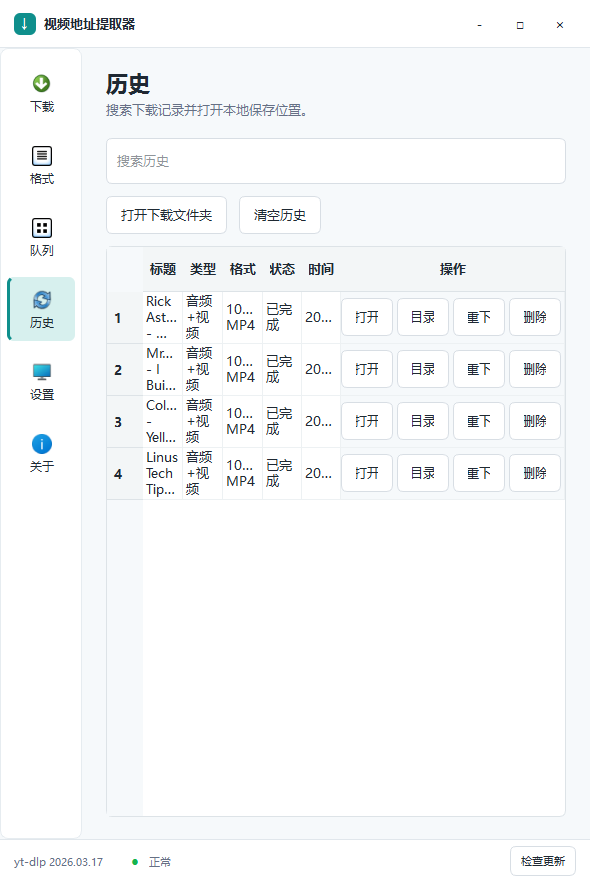
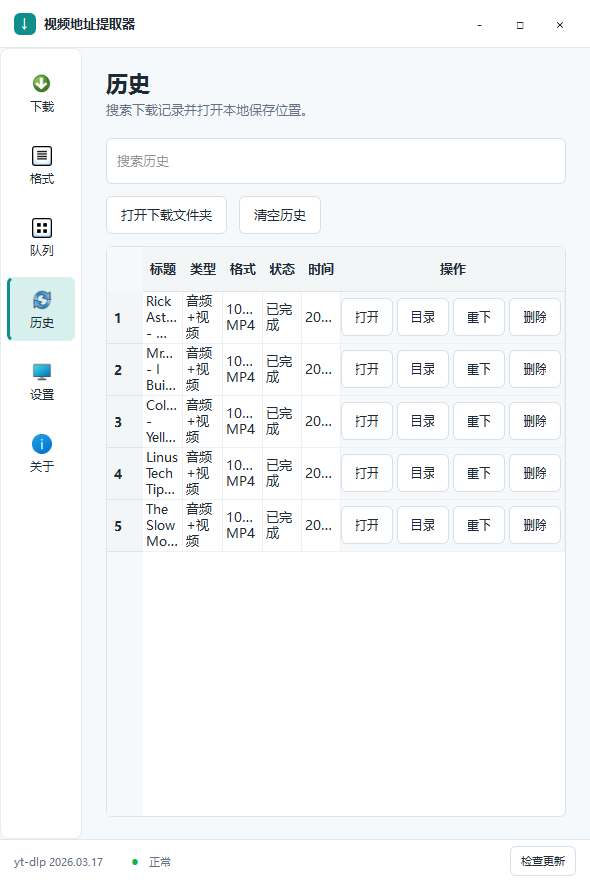
feat: refine queue visual layout

diff --git a/tests/test_gui_smoke.py b/tests/test_gui_smoke.py
@@ -493,6 +493,32 @@ def test_queue_history_status_uses_completed_badge(qtbot):
     assert badge.maximumHeight() <= 24
 
 
+def test_queue_history_footer_exposes_folder_and_search_controls(qtbot):
+    window = MainWindow()
+    qtbot.addWidget(window)
+
+    assert window.queue_page.open_downloads_button.text() == "打开下载文件夹"
+    assert window.queue_page.history_search.placeholderText() == "搜索历史..."
+    assert window.queue_page.open_downloads_button.minimumWidth() >= 150
+    assert window.queue_page.history_search.minimumWidth() >= 180
+
+
+def test_queue_history_search_filters_recent_records(qtbot):
+    window = MainWindow()
+    qtbot.addWidget(window)
+    window.queue_page.load_history_records(
+        [
+            HistoryRecord("Alpha Video", "https://example.com/a", "D:/a.mp4", "音频+视频", "1080p MP4", "不下载", "finished", "2026-06-01T10:21:00"),
+            HistoryRecord("Beta Clip", "https://example.com/b", "D:/b.mp4", "音频+视频", "720p MP4", "不下载", "finished", "2026-06-01T09:15:00"),
+        ]
+    )
+
+    window.queue_page.history_search.setText("Beta")
+
+    assert window.queue_page.recent_history_table.rowCount() == 1
+    assert window.queue_page.recent_history_table.item(0, 0).text() == "Beta Clip"
+
+
 def test_queue_toolbar_aligns_with_header_at_reference_size(qtbot):
     apply_light_theme(QApplication.instance())
     window = MainWindow()
@@ -507,6 +533,45 @@ def test_queue_toolbar_aligns_with_header_at_reference_size(qtbot):
     button_top = window.queue_page.pause_all_button.mapTo(window.queue_page, QPoint(0, 0)).y()
 
     assert button_top <= title_top + 16
+
+
+def test_queue_header_uses_compact_reference_layout(qtbot):
+    window = MainWindow()
+    qtbot.addWidget(window)
+
+    subtitles = [
+        label.text()
+        for label in window.queue_page.findChildren(QLabel)
+        if label.text().startswith("查看")
+    ]
+
+    assert subtitles == []
+
+
+def test_queue_cards_match_reference_top_and_height(qtbot):
+    apply_light_theme(QApplication.instance())
+    window = MainWindow()
+    qtbot.addWidget(window)
+    window.resize(535, 883)
+    window.nav.setCurrentRow(2)
+    for index in range(3):
+        task_id = f"task-{index}"
+        window.queue_page.add_task(task_id, "Rick Astley - Never Gonna Give You Up (Official Music Video)")
+        window.queue_page.update_task(
+            task_id,
+            status="下载中" if index < 2 else "已完成",
+            progress=[68.0, 32.0, 100.0][index],
+            speed="2.00MiB/s",
+            eta="00:18" if index < 2 else "00:00",
+        )
+    window.show()
+    qtbot.wait(50)
+
+    first_card = window.queue_page._task_cards["task-0"]["card"]
+    first_card_top = first_card.mapTo(window, QPoint(0, 0)).y()
+
+    assert 112 <= first_card_top <= 125
+    assert 86 <= first_card.height() <= 94
 
 
 def test_queue_card_actions_fit_compact_width(qtbot):

diff --git a/src/ytdl_gui/ui/pages/queue_page.py b/src/ytdl_gui/ui/pages/queue_page.py
@@ -4,6 +4,7 @@ from PySide6.QtWidgets import (
     QFrame,
     QHBoxLayout,
     QLabel,
+    QLineEdit,
     QProgressBar,
     QPushButton,
     QScrollArea,
@@ -24,6 +25,7 @@ class QueuePage(QWidget):
     def __init__(self):
         super().__init__()
         self._task_cards: dict[str, dict[str, object]] = {}
+        self._recent_history_records = []
         self.table = QTableWidget(0, 6)
         self.table.setHorizontalHeaderLabels(["标题", "状态", "进度", "速度", "剩余时间", "操作"])
         self.table.horizontalHeader().setSectionResizeMode(QHeaderView.Stretch)
@@ -36,7 +38,7 @@ class QueuePage(QWidget):
         self.card_host = QWidget()
         self.card_layout = QVBoxLayout(self.card_host)
         self.card_layout.setContentsMargins(0, 0, 0, 0)
-        self.card_layout.setSpacing(10)
+        self.card_layout.setSpacing(8)
         self.card_layout.addStretch()
 
         self.scroll_area = QScrollArea()
@@ -44,7 +46,7 @@ class QueuePage(QWidget):
         self.scroll_area.setWidgetResizable(True)
         self.scroll_area.setHorizontalScrollBarPolicy(Qt.ScrollBarPolicy.ScrollBarAlwaysOff)
         self.scroll_area.setVerticalScrollBarPolicy(Qt.ScrollBarPolicy.ScrollBarAlwaysOff)
-        self.scroll_area.setMaximumHeight(340)
+        self.scroll_area.setMaximumHeight(300)
         self.scroll_area.setSizePolicy(QSizePolicy.Policy.Expanding, QSizePolicy.Policy.Maximum)
         self.scroll_area.setWidget(self.card_host)
 
@@ -64,19 +66,34 @@ class QueuePage(QWidget):
         self.recent_history_table.setHorizontalScrollBarPolicy(Qt.ScrollBarPolicy.ScrollBarAlwaysOff)
         self.recent_history_table.setVerticalScrollBarPolicy(Qt.ScrollBarPolicy.ScrollBarAlwaysOff)
         self.recent_history_table.setMinimumHeight(144)
+        self.open_downloads_button = QPushButton("打开下载文件夹")
+        self.open_downloads_button.setObjectName("queueOpenDownloadsButton")
+        self.open_downloads_button.setFixedWidth(150)
+        self.history_search = QLineEdit()
+        self.history_search.setPlaceholderText("搜索历史...")
+        self.history_search.setObjectName("queueHistorySearch")
+        self.history_search.setFixedWidth(180)
+        self.history_search.textChanged.connect(lambda _text: self._render_recent_history())
 
         layout = QVBoxLayout(self)
-        layout.setContentsMargins(24, 22, 24, 22)
-        layout.setSpacing(12)
+        layout.setContentsMargins(24, 20, 24, 22)
+        layout.setSpacing(10)
         header_row = QHBoxLayout()
         header_row.setContentsMargins(0, 0, 0, 0)
         header_row.setSpacing(12)
-        header_row.addWidget(PageHeader("队列", "查看待处理、下载中和已完成任务。"), 1)
+        header_row.addWidget(PageHeader("队列"), 1)
         header_row.addLayout(actions)
         layout.addLayout(header_row)
         layout.addWidget(self.scroll_area, 2)
         layout.addWidget(self.history_heading)
         layout.addWidget(self.recent_history_table, 1)
+        history_footer = QHBoxLayout()
+        history_footer.setContentsMargins(0, 0, 0, 0)
+        history_footer.setSpacing(12)
+        history_footer.addWidget(self.open_downloads_button)
+        history_footer.addStretch()
+        history_footer.addWidget(self.history_search)
+        layout.addLayout(history_footer)
         layout.addWidget(self.table, 1)
 
     def add_task(self, task_id: str, title: str, status: str = "等待中", thumbnail: QPixmap | None = None) -> None:
@@ -112,8 +129,9 @@ class QueuePage(QWidget):
     def _add_task_card(self, task_id: str, title: str, status: str, thumbnail: QPixmap | None = None) -> None:
         card = QFrame()
         card.setObjectName("queueCard")
+        card.setFixedHeight(90)
         layout = QHBoxLayout(card)
-        layout.setContentsMargins(12, 12, 12, 12)
+        layout.setContentsMargins(12, 10, 12, 10)
         layout.setSpacing(12)
 
         thumb = QLabel("视频")
@@ -214,8 +232,21 @@ class QueuePage(QWidget):
                 widget.deleteLater()
 
     def load_history_records(self, records) -> None:
+        self._recent_history_records = list(records)[-5:]
+        self._render_recent_history()
+
+    def _render_recent_history(self) -> None:
         self.recent_history_table.setRowCount(0)
-        for record in list(records)[-5:]:
+        query = self.history_search.text().strip().casefold()
+        records = [
+            record
+            for record in self._recent_history_records
+            if not query
+            or query in record.title.casefold()
+            or query in record.format_summary.casefold()
+            or query in record.created_at.casefold()
+        ]
+        for record in records:
             row = self.recent_history_table.rowCount()
             self.recent_history_table.insertRow(row)
             values = [

diff --git a/scripts/render_qa_screenshots.py b/scripts/render_qa_screenshots.py
@@ -56,6 +56,12 @@ VISUAL_HISTORY_ROWS = [
         "1080p60 MP4",
         "2026-05-25T19:31:00",
     ),
+    (
+        "The Slow Mo Guys - Top 100 Shots",
+        "音频+视频",
+        "1080p120 MP4",
+        "2026-05-24T18:05:00",
+    ),
 ]
 
 

diff --git a/tests/test_render_qa_screenshots.py b/tests/test_render_qa_screenshots.py
@@ -7,6 +7,7 @@ from scripts.render_qa_screenshots import assert_image_size
 from scripts.render_qa_screenshots import apply_visual_download_state
 from scripts.render_qa_screenshots import VISUAL_SAMPLE_URL
 from scripts.render_qa_screenshots import VISUAL_SAVE_DIR
+from scripts.render_qa_screenshots import VISUAL_HISTORY_ROWS
 from scripts.render_qa_screenshots import visual_metadata_fixture
 from ytdl_gui.ui.main_window import MainWindow
 
@@ -28,6 +29,10 @@ def test_visual_metadata_fixture_uses_reference_like_sample_content():
     assert metadata["duration"] == 213
     assert metadata["view_count"] == 1450123456
     assert metadata["formats"] == [{"format_id": "18"}]
+
+
+def test_visual_history_fixture_matches_reference_row_count():
+    assert len(VISUAL_HISTORY_ROWS) == 5
 
 
 def test_apply_visual_download_state_sets_reference_input_and_save_path(qtbot):

diff --git a/src/ytdl_gui/ui/main_window.py b/src/ytdl_gui/ui/main_window.py
@@ -421,6 +421,7 @@ class MainWindow(QWidget):
     def connect_history_actions(self) -> None:
         self.history_page.clear_button.clicked.connect(self.clear_history)
         self.history_page.open_folder_button.clicked.connect(self.open_download_folder)
+        self.queue_page.open_downloads_button.clicked.connect(self.open_download_folder)
         self.history_page.history_action_requested.connect(self.handle_history_action)
 
     def connect_queue_actions(self) -> None:

diff --git a/docs/qa/function-test-matrix.md b/docs/qa/function-test-matrix.md
@@ -20,12 +20,12 @@ Batch test URLs:
 | Queue thumbnails | Queue cards can show the analyzed video thumbnail instead of a placeholder | `tests/test_queue_controls_gui.py::test_queue_card_can_render_thumbnail`; `tests/test_queue_controls_gui.py::test_main_window_adds_analysis_thumbnail_to_queue_card`; refreshed `docs/qa/screenshots/3-queue.png` | Pass |
 | History | Finished download writes history | `scripts/real_download_matrix.ps1`, all matrix cases `history_count=1` | Pass |
 | History output path | Finished download history records the real file emitted by yt-dlp, not the output template | `tests/test_download_progress.py::test_finished_download_history_uses_actual_output_path`; `tests/test_workers.py::test_download_worker_emits_actual_output_path_from_ytdlp_print`; `scripts/real_url_smoke.ps1` printed an existing `history_output_path` under `.qa-real-smoke/basic/20260603-001115` | Pass |
-| Batch real URLs | Multiple pasted URLs can be analyzed, queued with concurrency 2, downloaded, and recorded in history | `scripts/real_batch_smoke.ps1` latest run under `.qa-real-smoke/batch/20260603-032953`: 3 real URLs, `queue_rows=3`, `queue_statuses=已完成,已完成,已完成`, `history_count=3`, `downloaded_files=3`, `downloaded_bytes=11,007,992`, history output paths match record titles | Pass |
+| Batch real URLs | Multiple pasted URLs can be analyzed, queued with concurrency 2, downloaded, and recorded in history | `scripts/real_batch_smoke.ps1` latest run under `.qa-real-smoke/batch/20260603-040245`: 3 real URLs, `queue_rows=3`, `queue_statuses=已完成,已完成,已完成`, `history_count=3`, `downloaded_files=3`, `downloaded_bytes=11,007,992`, history output paths match record titles | Pass |
 | History missing files | Opening a moved/deleted history file shows Chinese confirmation and offers last known folder | `tests/test_ui_service_wiring.py::test_history_open_missing_file_offers_last_known_folder` | Pass |
 | Packaging | Build Win11 x64 dist folder | `scripts/package_win.ps1` | Pass |
 | Packaged smoke | Bundled yt-dlp and bundled ffmpeg report versions | `scripts/smoke_packaged.ps1`, yt-dlp `2026.03.17`, ffmpeg `8.1-essentials_build-www.gyan.dev` | Pass |
 | Packaged startup | Exe opens responsive window | Manual process smoke, title `视频地址提取器` | Pass |
-| Visual diff | Strict pixel comparison with reference crops | `scripts/visual_compare.py`, `docs/qa/visual-diff.json`; latest exact: Download `1.0557%`, Formats `1.7575%`, Queue `1.5408%` | Not pass |
+| Visual diff | Strict pixel comparison with reference crops | `scripts/visual_compare.py`, `docs/qa/visual-diff.json`; latest exact: Download `1.0557%`, Formats `1.7575%`, Queue `1.9881%` | Not pass |
 | Navigation visual rail | Left navigation uses visible icon+Chinese-label widgets without ellipsis, duplicate native text/icons, overlap, or scrollbar artifacts | `tests/test_gui_smoke.py::test_navigation_matches_reference_icon_rail`; `tests/test_gui_smoke.py::test_navigation_custom_widgets_avoid_native_text_duplication`; `tests/test_gui_smoke.py::test_navigation_icon_and_label_do_not_overlap`; refreshed `docs/qa/screenshots/1-download.png` | Pass |
 | Cookies settings | Select and validate cookies.txt from GUI | `tests/test_settings_actions.py` covers choose/validate/clear and path-only storage | Pass |
 | History actions | Search/open folder/clear from GUI | `tests/test_ui_service_wiring.py` covers search/open/clear; history write covered by real smoke | Pass |

diff --git a/docs/qa/visual-checklist.md b/docs/qa/visual-checklist.md
@@ -17,7 +17,7 @@
 - `git diff --check`: pass on current working tree, with only the existing CRLF notice for `docs/qa/visual-diff.json`.
 - Real URL analysis smoke uses `https://www.youtube.com/watch?v=PqQNXB6hhUs`.
 - Real download matrix completed audio+video `18`, audio-only `251`, and video-only `160`; each case wrote history and downloaded a real file under `.qa-real-smoke/matrix/20260603-010026`.
-- Real batch smoke completed 3 URLs including a Shorts link and a short video with concurrency 2 under `.qa-real-smoke/batch/20260603-032953`, with history output paths matched to each record title.
+- Real batch smoke completed 3 URLs including a Shorts link and a short video with concurrency 2 under `.qa-real-smoke/batch/20260603-040245`, with history output paths matched to each record title.
 - Real subtitle smoke completed subtitle-file download and ffmpeg burn-in on the Shorts link under `.qa-real-smoke/subtitles/20260603-010200`.
 - Real full GUI flow smoke completed analysis, preview URL extraction, download, queue, and history under `.qa-real-smoke/full/20260603-013630`.
 - Current screenshots are saved under `docs/qa/screenshots/`; the primary Download screenshot uses a deterministic audio+video visual sample.
@@ -28,5 +28,5 @@
 
 - Current UI has been moved toward the selected reference: custom title bar, compact icon+label left rail, bottom yt-dlp status bar, light Win11 surfaces, teal primary actions, staged download flow, reference-style audio/video/preview option rows, thumbnail preview overlay and duration badge, reference-style format resolution rows, thumbnail queue cards, queue-side recent history, and completed status badges.
 - Strict visual comparison is generated by `scripts/visual_compare.py` into `docs/qa/visual-diff.json`; the script now rejects screenshot size mismatches instead of silently scaling actual screenshots.
-- Latest strict comparison: Download exact `1.0557%`, Formats exact `1.7575%`, Queue exact `1.5408%`.
+- Latest strict comparison: Download exact `1.0557%`, Formats exact `1.7575%`, Queue exact `1.9881%`.
 - Pixel-perfect equality with `docs/gui-reference.png` remains unproven and is not claimed here.